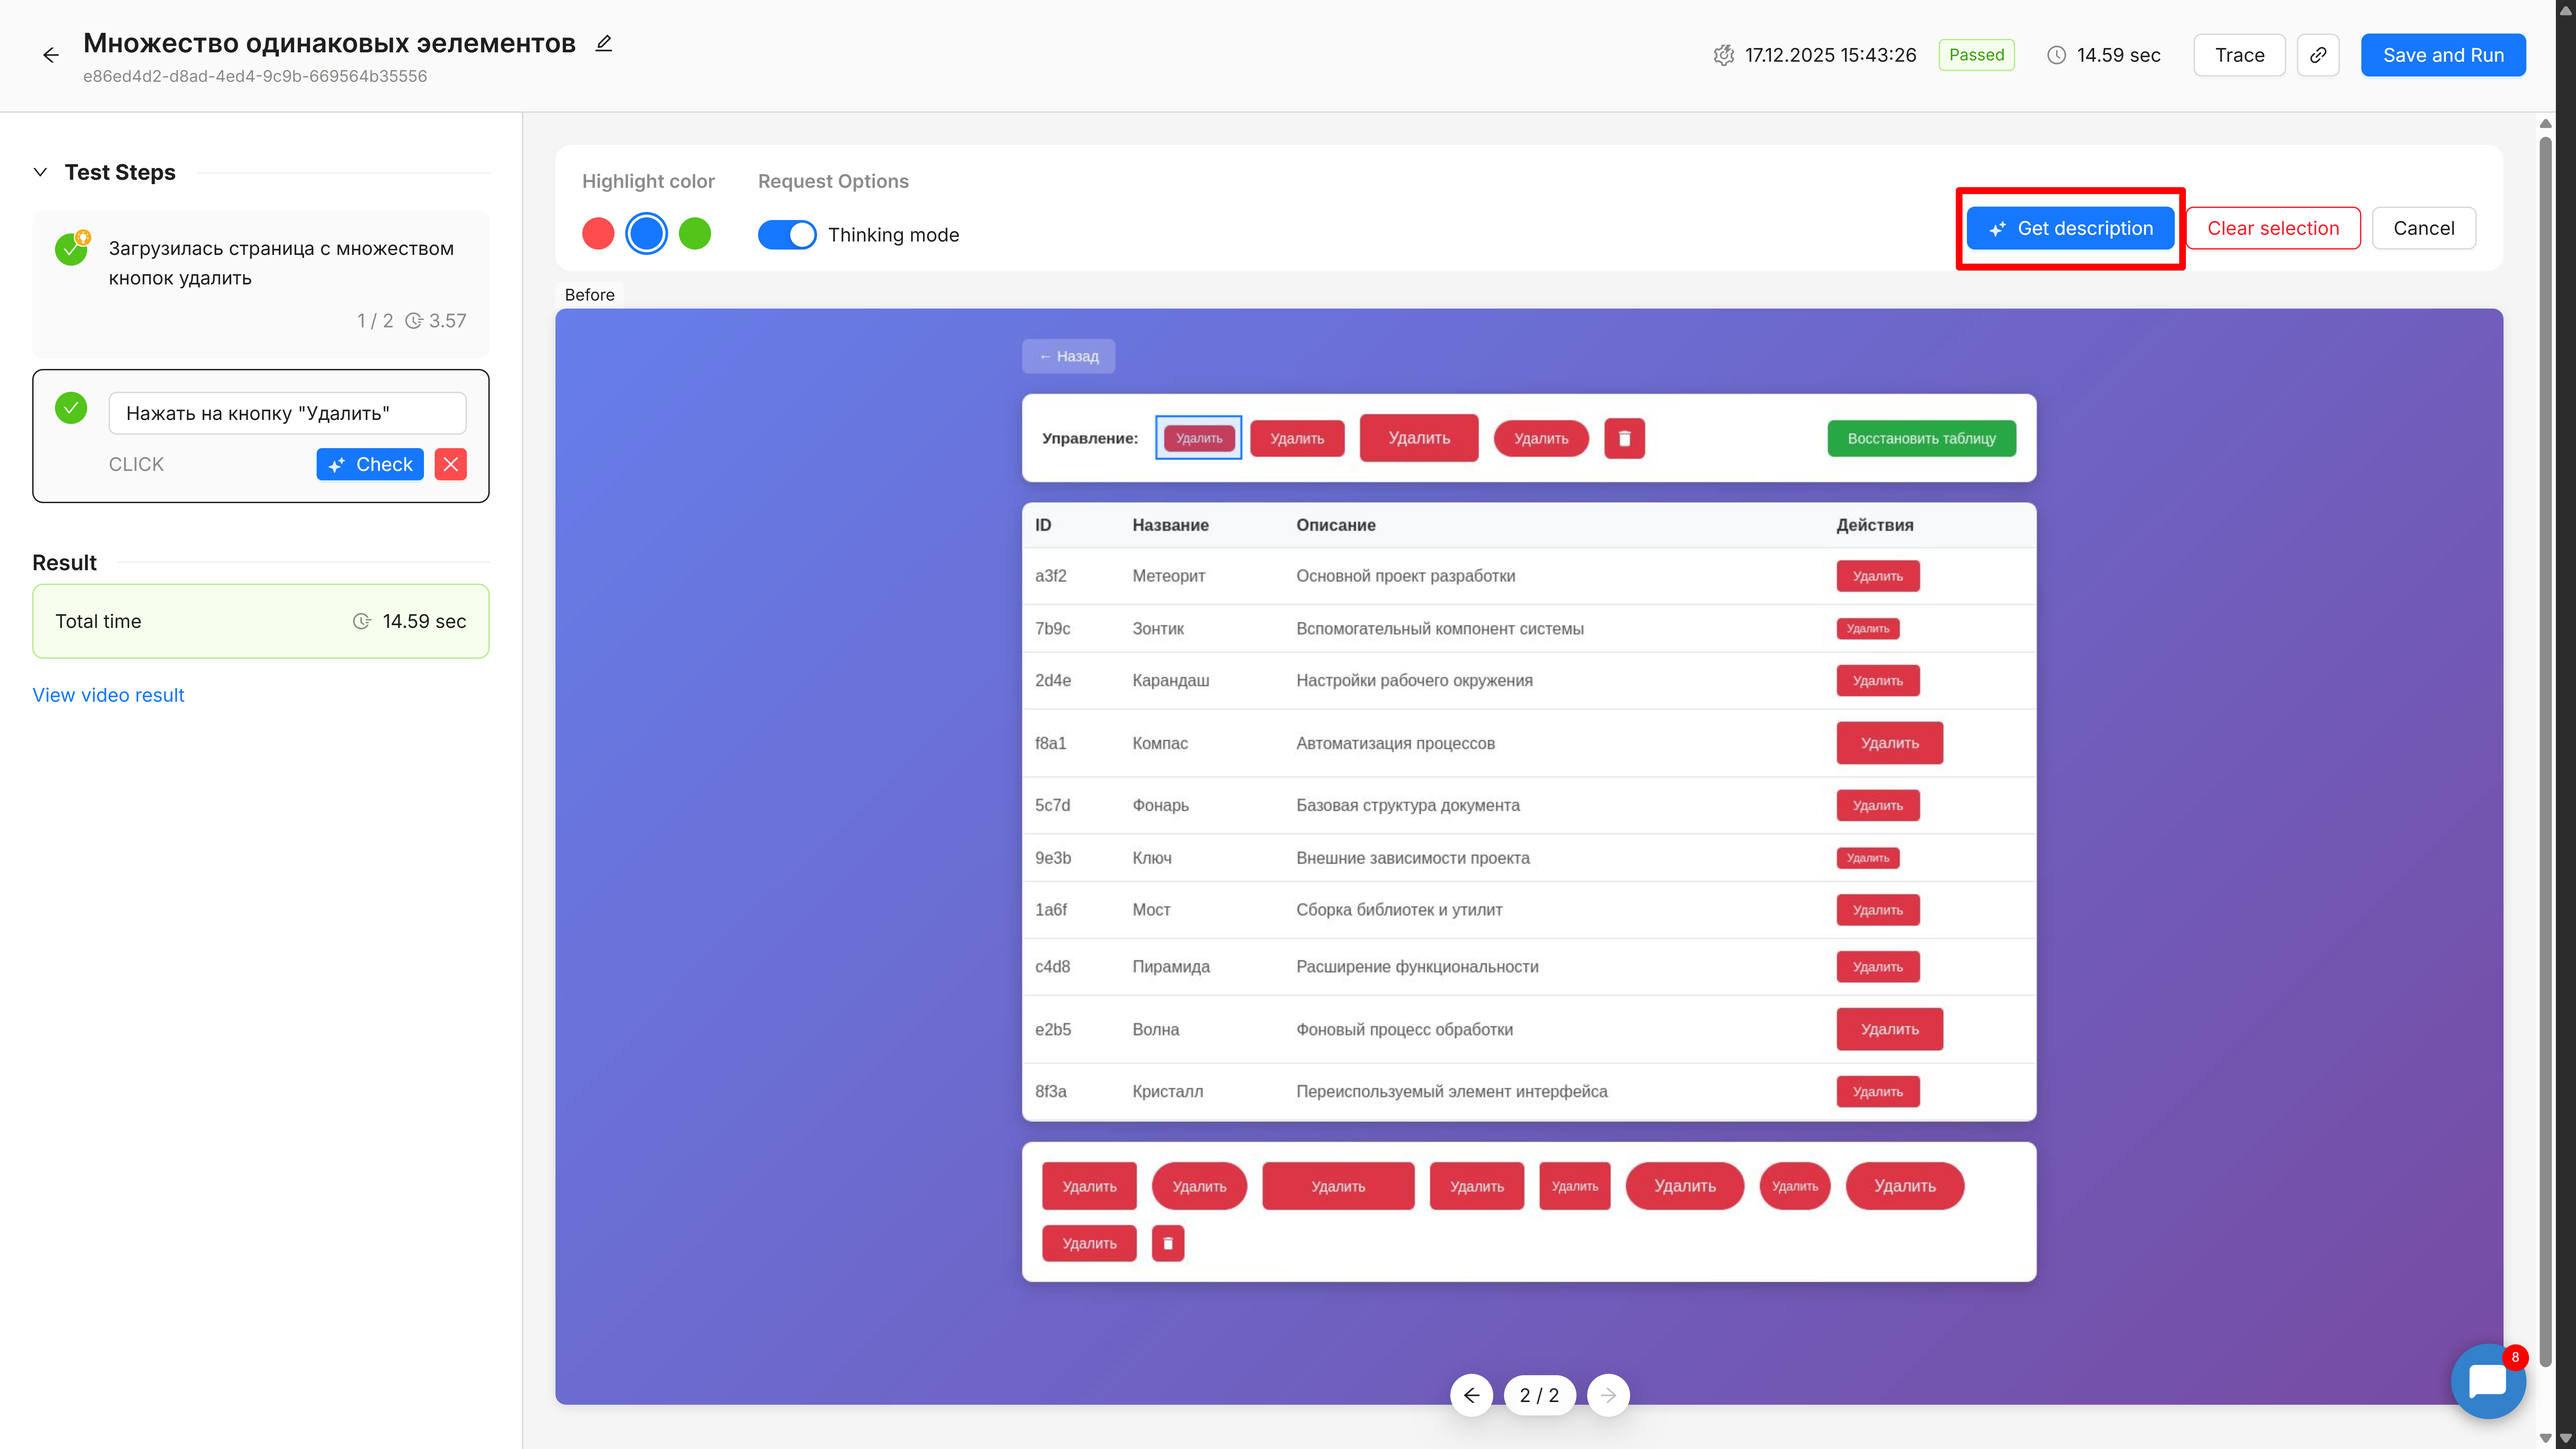
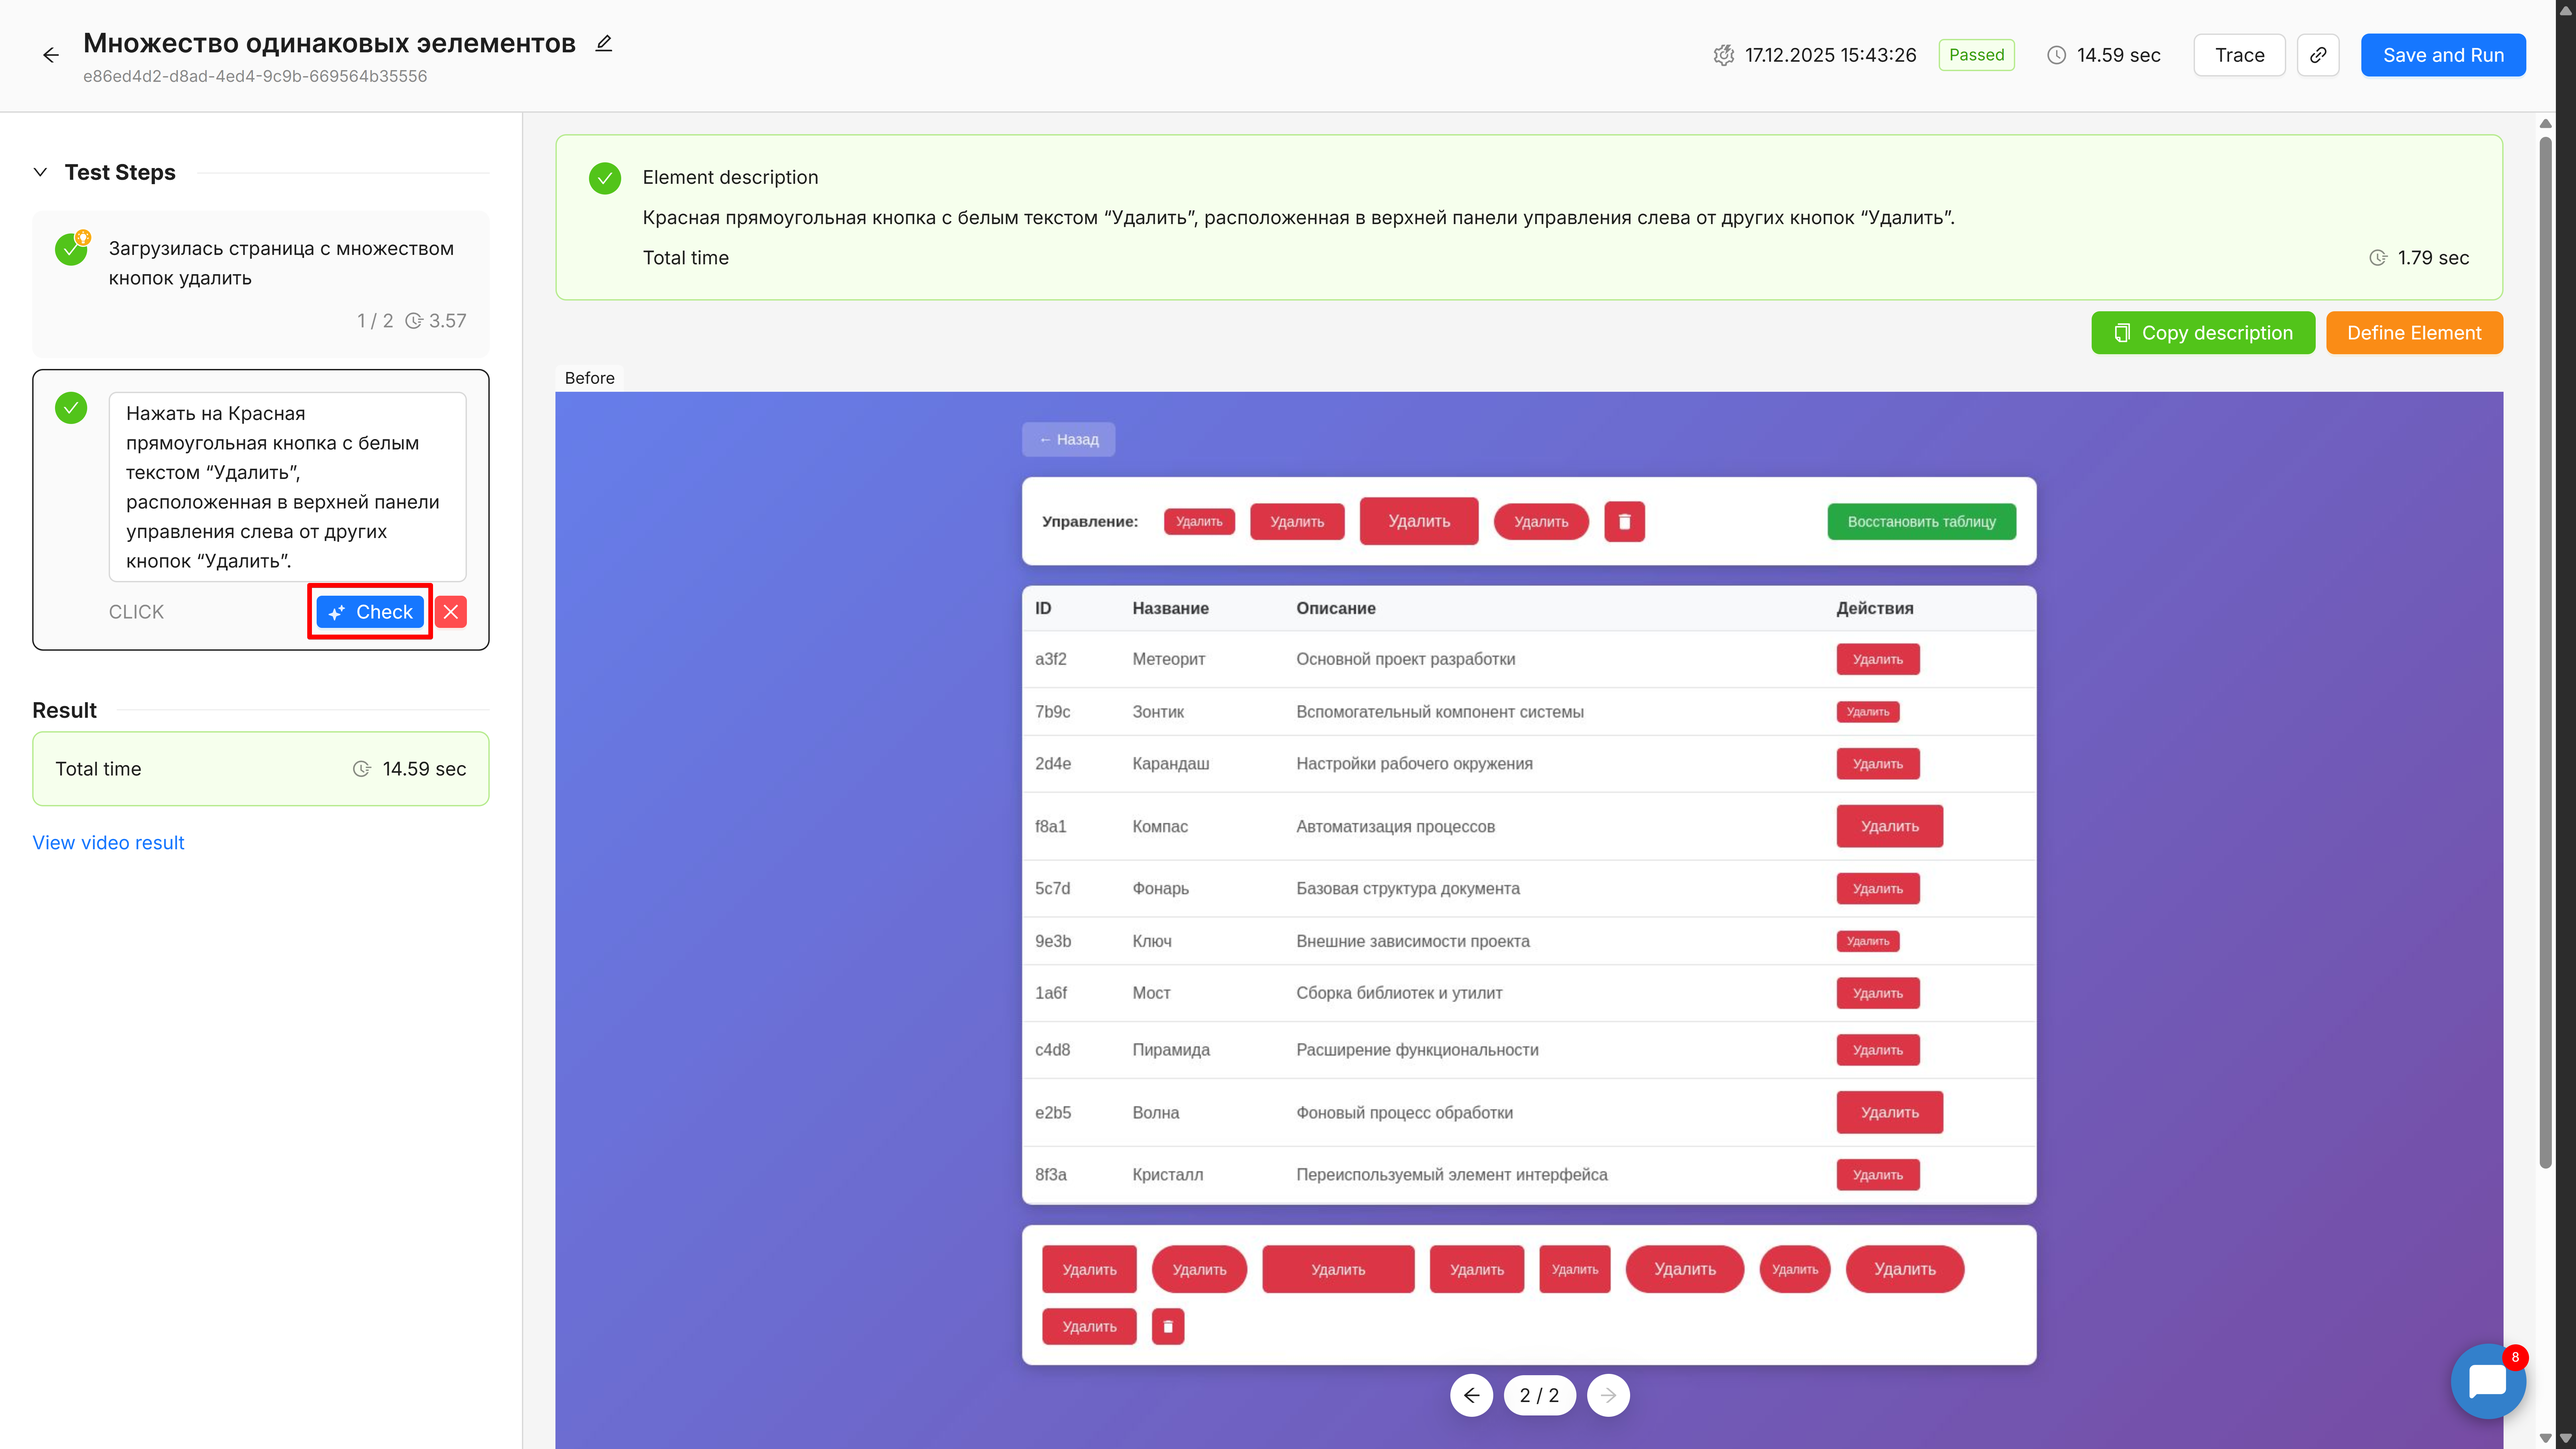
Update 4 files
- opisanie-elementov.md
   - opisanie-elementov-4.png
   - opisanie-elementov-5.png
   - opisanie-elementov-6.png

diff --git a/opisanie-elementov.md b/opisanie-elementov.md
@@ -59,23 +59,41 @@ title: Уточнение описания элемента
 
 Когда описание будет готово, на экране появится результат. Вы увидите сгенерированное описание элемента -- короткий текст, который характеризует выделенную область.
 
-Важная особенность: после получения результата на экране снова отображается исходный скриншот без каких-либо выделений или аннотаций. Это сделано специально, чтобы вы могли сразу же выделить другую область и получить новое описание, не возвращаясь в предыдущий режим.
+\<скриншот>
 
-Кроме самого описания, вы увидите координаты выделенной области и время обработки запроса. Эта информация полезна для понимания, насколько точно вы выделили элемент.
+:::info 
+
+**Важная особенность:** после получения результата на экране снова отображается исходный скриншот без каких-либо выделений или аннотаций. Это сделано специально, чтобы вы могли сразу же выделить другую область и получить новое описание, не возвращаясь в предыдущий режим.
+
+:::
+
+Кроме самого описания, вы увидите координаты выделенной области и время обработки запроса. 
 
 ## Копирование и использование описания
 
-Рядом с полученным описанием находится кнопка **«Copy»**. Нажмите её, чтобы скопировать описание в буфер обмена. Теперь вы можете вставить это описание в поле описания элемента в вашем шаге теста.
+Рядом с полученным описанием находится кнопка **«Copy description»**. Нажмите её, чтобы скопировать описание в буфер обмена.
 
-Откройте редактирование шага, найдите место, где нужно указать элемент (например, «Нажать на кнопку...» или «Ввести текст в поле...»), и вставьте скопированное описание. Описание можно использовать как есть, или при необходимости немного отредактировать для большей ясности.
+![](./opisanie-elementov-4.png){width=7680px height=4320px}
+
+ 
+
+Вставьте скопированное описание в поле редактирования шага. Описание можно использовать как есть, или при необходимости немного отредактировать для большей ясности.
+
+![](./opisanie-elementov-6.png){width=7680px height=4320px}
+
+:::info 
+
+Будьте внимательны, модель возвращает только описание элемента, действие вы добавляете сами.
+
+:::
 
 ## Проверка описания
 
 После того как вы вставили описание в шаг, рекомендуется проверить, правильно ли система его интерпретирует. Для этого нажмите кнопку **«Check»** в форме одиночного запуска шага.
 
-При нажатии на **«Check»** произойдёт несколько вещей автоматически. Форма описания элемента закроется, режим выделения сбросится, и вы вернётесь в обычный режим проверки. На экране отобразится аннотированный скриншот с точкой или областью, где система нашла элемент по вашему описанию, а также плашка с координатами и временем обработки.
-
 ![](./opisanie-elementov-5.png){width=7680px height=4320px}
+
+При нажатии на **«Check»** произойдёт несколько вещей автоматически. Форма описания элемента закроется, режим выделения сбросится, и вы вернётесь в обычный режим проверки. На экране отобразится аннотированный скриншот с точкой или областью, где система нашла элемент по вашему описанию, а также плашка с координатами и временем обработки.
 
 Это позволяет визуально убедиться, что описание работает правильно и система находит именно тот элемент, который вам нужен. Если координаты совпадают с вашими ожиданиями -- отлично, можно сохранять шаг и использовать его в тестах. Если нет -- попробуйте уточнить описание или вернуться в режим «Define Element» и выделить область иначе.
 
